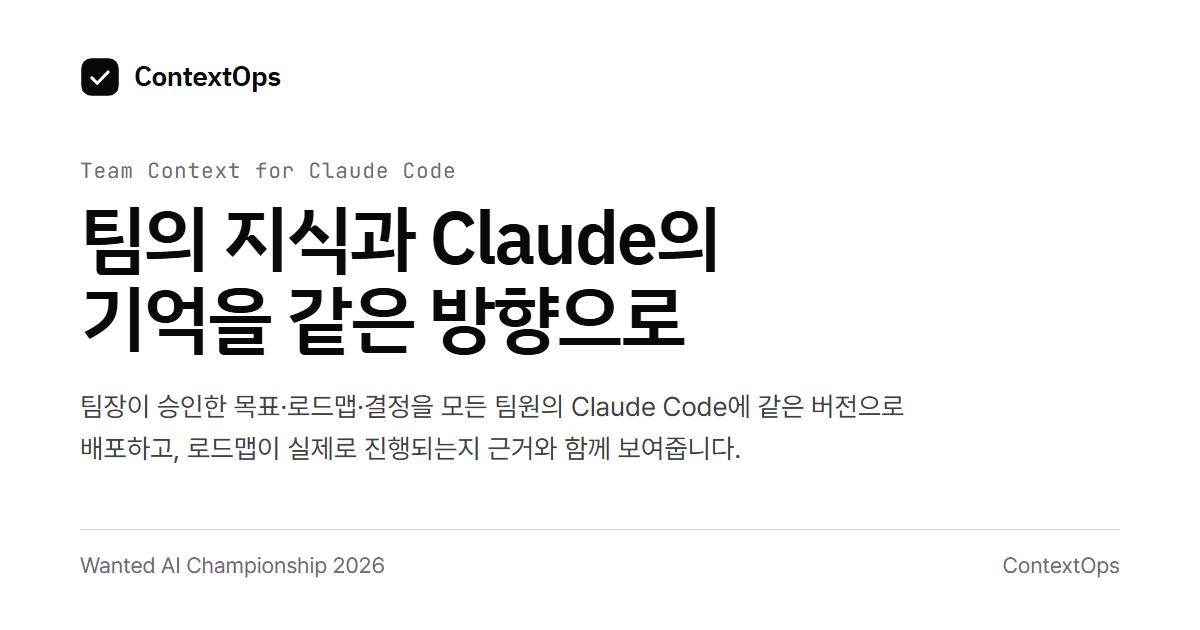
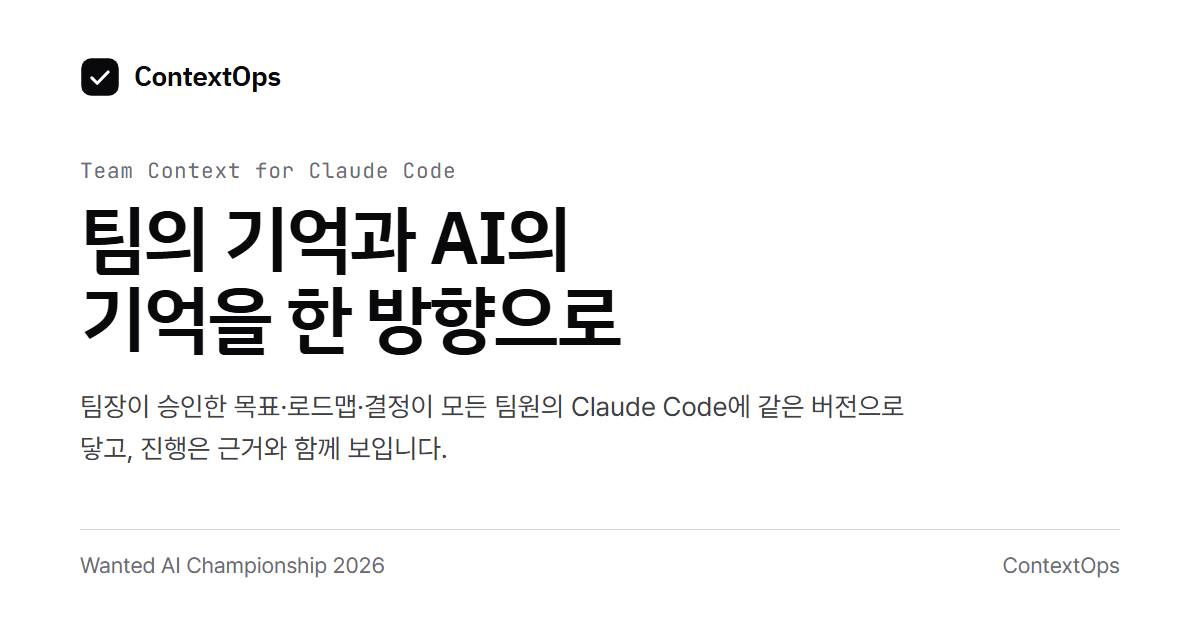
copy(web): 한 줄을 「팀의 기억과 AI의 기억을 한 방향으로」로 — 정본 site.ts 하나에서 랜딩·로그인·OG·문서까지
사용자 지시: 「문구들도 팀의 기억과 AI 기억을 한 방향으로 이런 식으로」.
- SITE.tagline / SITE.description 교체 (부제: 「…같은 버전으로 닿고, 진행은 근거와 함께 보입니다」)
- 로그인 화면은 글자 대신 SITE.tagline 을 읽는다 (두 곳이던 것을 하나로)
- README · SUBMISSION 「한 줄」 · SPEC·DESIGN_BRIEF 슬로건 · PITCH 컷 표 · loop/env.ps1 ProjectLine 같은 문장
- og.png 다시 그림

diff --git a/apps/web/src/lib/web/site.ts b/apps/web/src/lib/web/site.ts
@@ -14,11 +14,12 @@ export const SITE = {
   name: 'ContextOps',
   eyebrow: 'Team Context for Claude Code',
   /** 랜딩 제목과 같은 문장이다 (`LANDING_HEAD.title` 이 이 값을 읽는다). */
-  tagline: '팀의 지식과 Claude의 기억을 같은 방향으로',
+  //  2026-09-10 사용자 지시: 「팀의 기억과 AI 기억을 한 방향으로」 결로 — 짧고 곧게. 「지식」→「기억」, 「같은」→「한」.
+  tagline: '팀의 기억과 AI의 기억을 한 방향으로',
   /** 랜딩 부제와 같은 문장이다 (`LANDING_HEAD.subtitle`). 링크 미리보기의 설명 칸에 그대로 나간다. */
   description:
-    '팀장이 승인한 목표·로드맵·결정을 모든 팀원의 Claude Code에 같은 버전으로 배포하고, '
-    + '로드맵이 실제로 진행되는지 근거와 함께 보여줍니다.',
+    '팀장이 승인한 목표·로드맵·결정이 모든 팀원의 Claude Code에 같은 버전으로 닿고, '
+    + '진행은 근거와 함께 보입니다.',
   /** `public/og.png` — `pnpm --filter web og:image` 가 헤드리스 Chrome 으로 그린다 (1200×630). */
   ogImage: { path: '/og.png', width: 1200, height: 630 },
   /** `public/icon.svg` — 탭·북마크 아이콘. 색은 DESIGN_BRIEF §3 의 토큰 값 그대로다. */

diff --git a/apps/web/src/app/login/page.tsx b/apps/web/src/app/login/page.tsx
@@ -5,6 +5,7 @@ import { useSearchParams } from 'next/navigation'
 
 import { NO_ACCOUNT_HINT, authConfig, oauthUrl, sendMagicLink } from '../../lib/web/auth'
 import { PRIVACY_LABEL, PRIVACY_PATH } from '../../lib/web/privacy'
+import { SITE } from '../../lib/web/site'
 
 // =====================================================================
 //  화면 2 — 로그인 (SPEC §9 · DESIGN_BRIEF §4 「화면 2」)
@@ -51,7 +52,8 @@ function LoginCard() {
       <div className="card center-card">
         <div className="col-tight">
           <h1 className="text-section">ContextOps</h1>
-          <p className="ink-3">팀의 지식과 Claude의 기억을 같은 방향으로.</p>
+          {/* 한 줄의 정본은 `lib/web/site.ts` — 랜딩·<head>·OG 와 같은 문장이다. */}
+          <p className="ink-3">{SITE.tagline}.</p>
         </div>
 
         {config === null ? (

diff --git a/docs/DESIGN_BRIEF.md b/docs/DESIGN_BRIEF.md
@@ -7,7 +7,7 @@
 ## 1. 제품과 사용자
 
 - **제품 한 줄:** 팀의 목표·로드맵·기술 결정을 하나의 승인된 AI Context로 만들어 모든 팀원의 Claude Code에 같은 버전으로 배포하고, 로드맵이 실제로 진행되는지를 근거와 함께 보여준다.
-- **슬로건:** 팀의 지식과 Claude의 기억을 같은 방향으로.
+- **슬로건:** 팀의 기억과 AI의 기억을 한 방향으로. (2026-09-10 사용자 지시로 「팀의 지식과 Claude의 기억을 같은 방향으로」에서 바꿈 — 정본 `lib/web/site.ts`)
 - **사용자 셋:**
   - 팀장(승인자) — 브라우저만. 가져오기 → 정리 → 발행, Roadmap 확인. 비개발자일 수 있음.
   - 개발자 — 명령 한 줄 설치 후 Claude Code 안에서 sync/propose. 웹은 가끔.
@@ -236,8 +236,8 @@
 > 문구는 전부 그 파일의 표(`LANDING_HEAD` · `BEFORE_AFTER` · …)에 살고 시험이 읽는다.
 
 **A. 헤드라인** (좌측, 최대 60% 폭)
-- 제목: `팀의 지식과 Claude의 기억을 같은 방향으로`
-- 부제: `팀장이 승인한 목표·로드맵·결정을 모든 팀원의 Claude Code에 같은 버전으로 배포하고, 로드맵이 실제로 진행되는지 근거와 함께 보여줍니다.`
+- 제목: `팀의 기억과 AI의 기억을 한 방향으로`
+- 부제: `팀장이 승인한 목표·로드맵·결정이 모든 팀원의 Claude Code에 같은 버전으로 닿고, 진행은 근거와 함께 보입니다.`
 - 버튼: [샘플 팀으로 둘러보기] (accent, 게스트 입장) · [2분 영상 보기] (outline)
 - 아래 작은 줄: `팀장은 브라우저에서 15분, 개발자는 명령 한 줄.`
 

diff --git a/docs/PITCH.md b/docs/PITCH.md
@@ -42,7 +42,7 @@
 
 | # | 제목 | 몸통 (한 장에 한 생각) | 그림 |
 |---|---|---|---|
-| 1 | 팀의 지식과 Claude의 기억을 같은 방향으로 | 한 문장 · 팀명 · 저장소 | 랜딩 OG 이미지 (`apps/web/public/og.png`) |
+| 1 | 팀의 기억과 AI의 기억을 한 방향으로 | 한 문장 · 팀명 · 저장소 | 랜딩 OG 이미지 (`apps/web/public/og.png`) |
 | 2 | 같은 팀, 다른 답 | Before/After 카드 그대로 — 재시도 5회 vs 3회 · 환불 SLA | 랜딩 캡처 |
 | 3 | 왜 지금 생기는 문제인가 | CLAUDE.md 는 **개인 파일**이다 · 팀 규칙이 AI 에 들어가는 문이 없다 · 진행은 아무도 모른다 | 개념도 (`docs/diagrams/`) |
 | 4 | 세 걸음 | 모은다(구조화 · 질문) → 사람이 정한다(승인 · 발행) → 모두에게 같은 것을(sync · 근거) | 화면 3 → 5 → 7 캡처 셋 |

diff --git a/docs/SPEC.md b/docs/SPEC.md
@@ -9,7 +9,7 @@
 
 **한 줄:** 팀의 목표·로드맵·기술 결정을 하나의 승인된 AI Context로 만들어 모든 팀원의 Claude Code에 같은 버전으로 배포하고, 로드맵이 실제로 진행되는지를 근거와 함께 보여준다.
 
-**슬로건:** 팀의 지식과 Claude의 기억을 같은 방향으로.
+**슬로건:** 팀의 기억과 AI의 기억을 한 방향으로. (2026-09-10 · 정본 `apps/web/src/lib/web/site.ts`)
 
 ### 0.1 절대 원칙 (코드 리뷰 시 위반 여부를 검사한다)
 

diff --git a/README.md b/README.md
@@ -1,6 +1,6 @@
 # ContextOps
 
-**팀의 지식과 Claude의 기억을 같은 방향으로**
+**팀의 기억과 AI의 기억을 한 방향으로**
 
 같은 팀인데 **AI마다 다른 답**을 합니다. 팀 규칙이 사람마다 다른 파일에 흩어져 있기 때문입니다.
 
